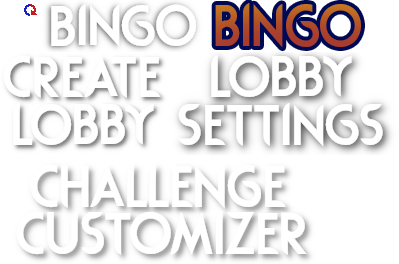
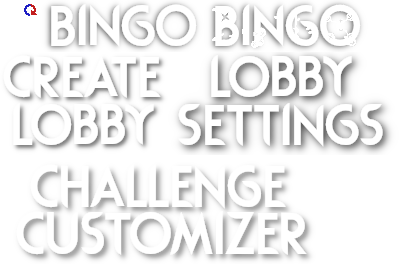
New bingo watcher title

Changed region(s): [[0.5113, 0.0, 0.9323, 0.2121]]

diff --git a/BingoMode/BingoChallenges/BingoShelterChallenge.cs b/BingoMode/BingoChallenges/BingoShelterChallenge.cs
@@ -44,7 +44,7 @@ namespace BingoMode.BingoChallenges
             if (differentRegions.Value)
             {
                 return new Phrase(
-                    [[new Icon("ShelterMarker"), new Icon("TravellerA")],
+                    [[new Icon(Plugin.PluginInstance.BingoConfig.FillIcons.Value ? "keyShiftB" : "keyShiftA", 1f, Color.green, 90), new Icon("ShelterMarker"), new Icon("TravellerA")],
                     [new Counter(current, amount.Value)]]);
             }
             else
@@ -52,14 +52,14 @@ namespace BingoMode.BingoChallenges
                 if (region.Value != "Any Region")
                 {
                     return new Phrase(
-                        [[new Icon(unique.Value ? "ShelterMarker" : "doubleshelter")],
+                        [[new Icon(Plugin.PluginInstance.BingoConfig.FillIcons.Value ? "keyShiftB" : "keyShiftA", 1f, Color.green, 90), new Icon(unique.Value ? "ShelterMarker" : "doubleshelter")],
                         [new Verse(region.Value)],
                         [new Counter(current, amount.Value)]]);
                 }
                 else
                 {
                     return new Phrase(
-                        [[new Icon(unique.Value ? "ShelterMarker" : "doubleshelter")],
+                        [[new Icon(Plugin.PluginInstance.BingoConfig.FillIcons.Value ? "keyShiftB" : "keyShiftA", 1f, Color.green, 90), new Icon(unique.Value ? "ShelterMarker" : "doubleshelter")],
                         [new Counter(current, amount.Value)]]);
                 }
             }
@@ -82,14 +82,21 @@ namespace BingoMode.BingoChallenges
             bool u = UnityEngine.Random.value < 0.5f;
             bool d = UnityEngine.Random.value < 0.5f;
             int count = 0;
-            if (d || !u || regionn == "Any Region") count = UnityEngine.Random.Range(1, 8);
-            else count = UnityEngine.Random.Range(1, ChallengeUtils.RegionShelterCount[ExpeditionData.slugcatPlayer.value][regionn]);
+            Plugin.logger.LogInfo($"Region: {regionn} Different: {d} Unique: {u}");
+            if (d || !u || regionn == "Any Region")
+            {
+                count = UnityEngine.Random.Range(1, 8);
+            }
+            else
+            {
+                count = UnityEngine.Random.Range(1, ChallengeUtils.RegionShelterCount[ExpeditionData.slugcatPlayer.value][regionn]);
+            }
 
             return new BingoShelterChallenge
             {
                 region = new(regionn, "Region", 0, listName: ChallengeListConstants.ShelterRegions),
                 unique = new(u, "Unique shelters", 1),
-                differentRegions = new(UnityEngine.Random.value < 0.5f, "Different regions", 2),
+                differentRegions = new(d, "Different regions", 2),
                 amount = new(count, "Amount", 3)
             };
         }

diff --git a/BingoMode/BingoBoard.cs b/BingoMode/BingoBoard.cs
@@ -472,9 +472,9 @@ namespace BingoMode
             List<Challenge> list = [];
             list.AddRange(BingoData.GetAdequateChallengeList(ExpeditionData.slugcatPlayer));
 
-            if (!BingoData.bannedChallenges.ContainsKey(BingoData.slugcatPlayer)) BingoData.LoadAllBannedChallengeLists(BingoData.slugcatPlayer);
+            if (!BingoData.bannedChallenges.ContainsKey(ExpeditionData.slugcatPlayer)) BingoData.LoadAllBannedChallengeLists(ExpeditionData.slugcatPlayer);
 
-            list.RemoveAll(x => (type == null || x.GetType() != type.GetType()) && BingoData.bannedChallenges[BingoData.slugcatPlayer].Contains(x.GetType().Name));
+            list.RemoveAll(x => (type == null || x.GetType() != type.GetType()) && BingoData.bannedChallenges[ExpeditionData.slugcatPlayer].Contains(x.GetType().Name));
             if (type != null) list.RemoveAll(x => x.GetType() != type.GetType());
             int tries = 0;
         resette:

diff --git a/BingoMode/BingoHUD/BingoHUDMain.cs b/BingoMode/BingoHUD/BingoHUDMain.cs
@@ -863,7 +863,6 @@ namespace BingoMode.BingoHUD
             if (bingoCompleteTitle.element == normalTitle && BingoData.slugcatPlayer == SlugNameWatcher.Watcher)
             {
                 bingoCompleteTitle.element = watcherTitle;
-                bingoCompleteTitle.shader = Custom.rainWorld.Shaders["Basic"];
             }
 
             bingoCompleteTitle.alpha = cAlfa;

diff --git a/BingoMode/BingoMenu/BingoPage.cs b/BingoMode/BingoMenu/BingoPage.cs
@@ -334,7 +334,6 @@ namespace BingoMode.BingoMenu
             if (title.element == normalTitle && BingoData.slugcatPlayer == SlugNameWatcher.Watcher)
             {
                 title.element = watcherTitle;
-                title.shader = Custom.rainWorld.Shaders["Basic"];
             }
 
             title.SetPosition(DrawPos(timeStacker) + new Vector2(menu.manager.rainWorld.screenSize.x / 2f, menu.manager.rainWorld.screenSize.y - TITLE_MARGIN));